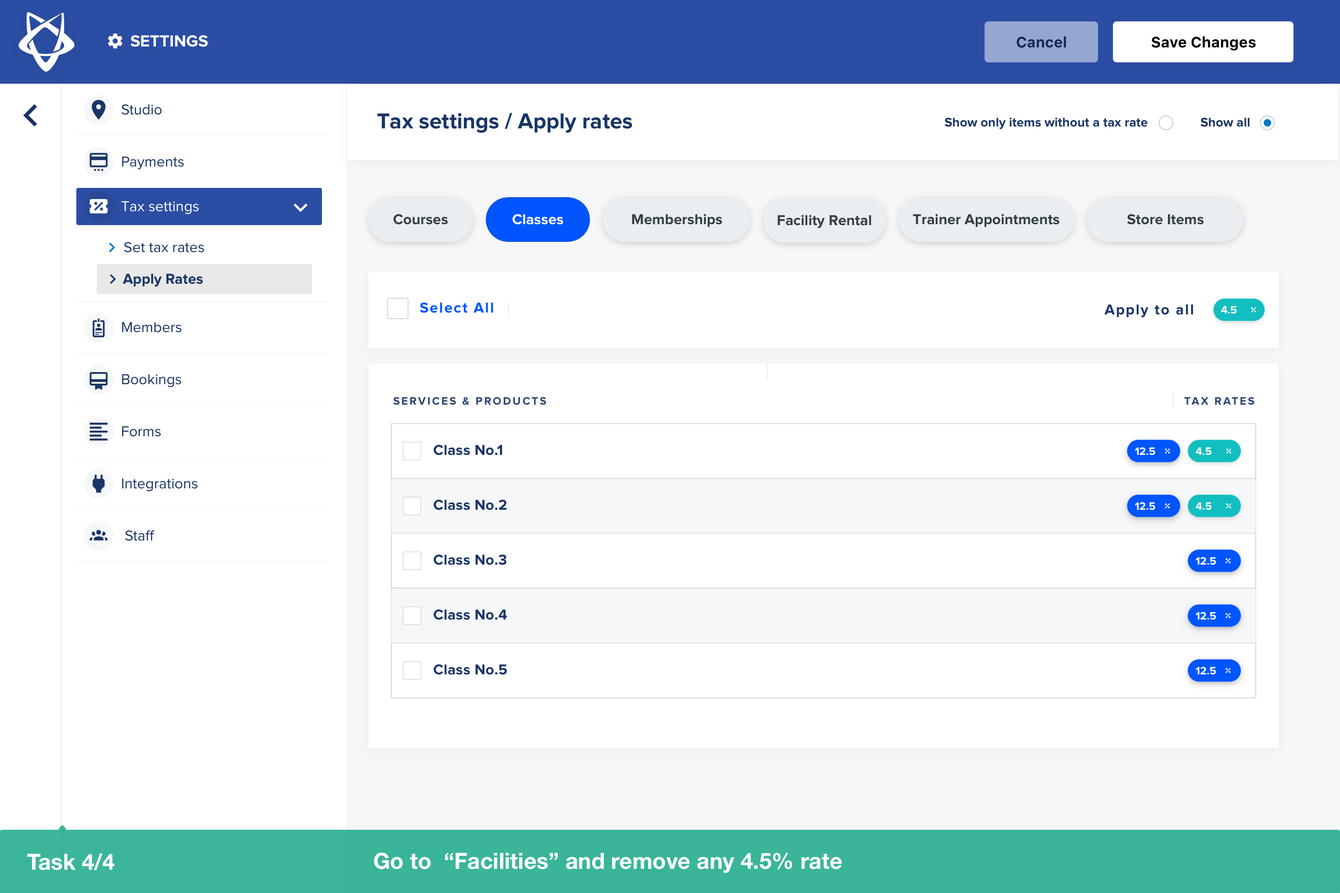
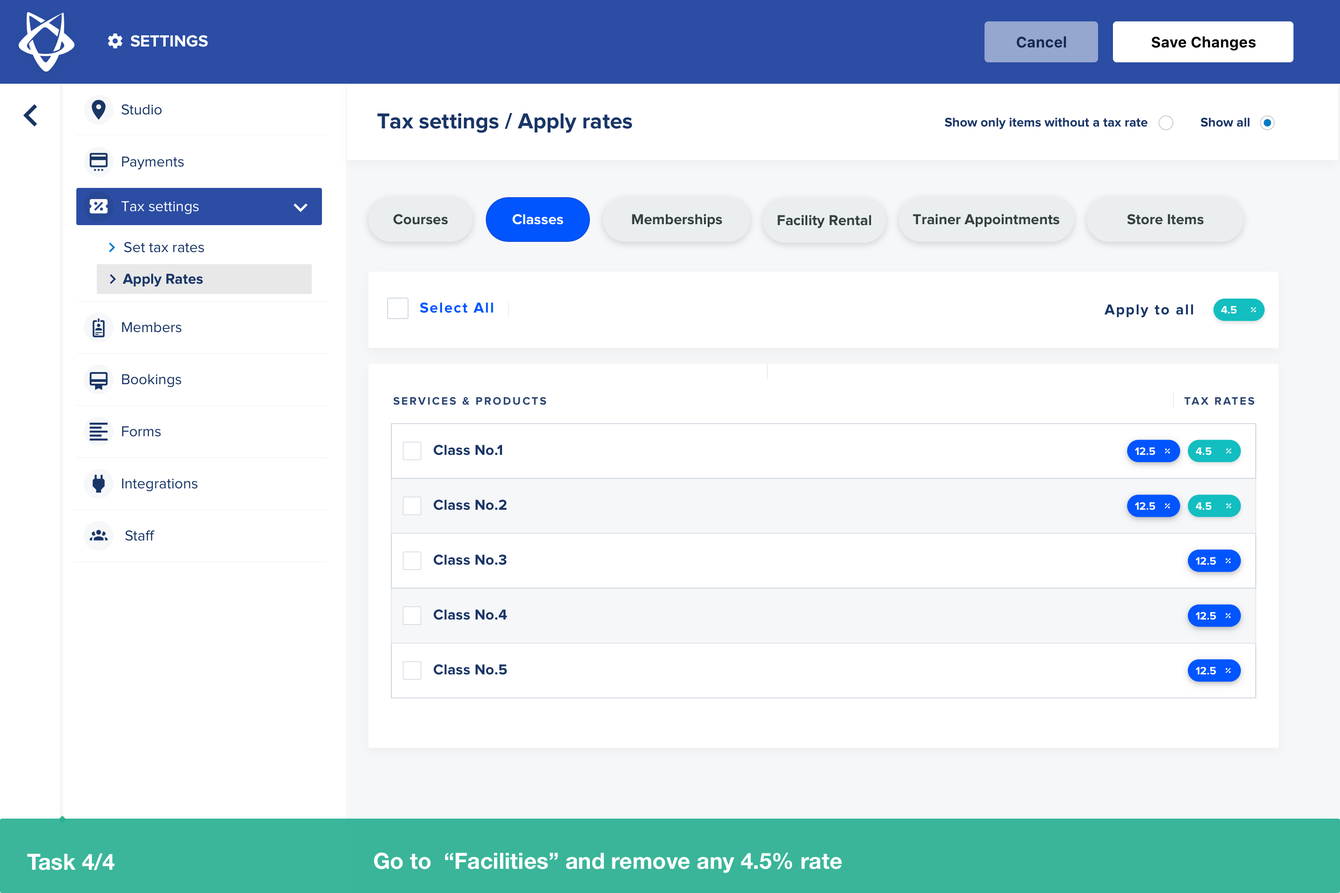
fixing sticky bars

Changed region(s): [[0.0, 0.9062, 1.0, 0.9375]]

diff --git a/index.html b/index.html
@@ -39,21 +39,22 @@
 	<link type="text/css" rel="stylesheet" href="assets/apps/share/css-static/bootstrap.css">
 	<link type="text/css" rel="stylesheet" href="assets/apps/share/css-static/intlTelInput.css">
 	<link type="text/css" rel="stylesheet" href="assets/apps/share/css/share-offline.css">
+
 	<!-- Hotjar Tracking Code for https://cristi-glofox.github.io/sales-tax-test-4/ -->
 <script>
-		var url = window.location.href;
-		if (url.indexOf("version4") == -1) {
-			window.location.href = "https://google.com";
-		}
-		(function(h,o,t,j,a,r){
-			h.hj=h.hj||function(){(h.hj.q=h.hj.q||[]).push(arguments)};
-			h._hjSettings={hjid:1390330,hjsv:6};
-			a=o.getElementsByTagName('head')[0];
-			r=o.createElement('script');r.async=1;
-			r.src=t+h._hjSettings.hjid+j+h._hjSettings.hjsv;
-			a.appendChild(r);
-		})(window,document,'https://static.hotjar.com/c/hotjar-','.js?sv=');
-	</script>
+	var url = window.location.href;
+	if (url.indexOf("version4") == -1) {
+		window.location.href = "https://google.com";
+	}
+	(function(h,o,t,j,a,r){
+		h.hj=h.hj||function(){(h.hj.q=h.hj.q||[]).push(arguments)};
+		h._hjSettings={hjid:1390330,hjsv:6};
+		a=o.getElementsByTagName('head')[0];
+		r=o.createElement('script');r.async=1;
+		r.src=t+h._hjSettings.hjid+j+h._hjSettings.hjsv;
+		a.appendChild(r);
+	})(window,document,'https://static.hotjar.com/c/hotjar-','.js?sv=');
+</script>
 </head>
 <body
 	class="branding-invision"
@@ -184,10 +185,10 @@
 						shouldShowPoweredBy: false,
 						share: {"isLoadAllScreens":true,"showToolbarIntroduction":false,"hasClosedShareIntro":true,"screenID":0,"isNavigateAllowed":true},
 						project: {"defaultbackgroundautostretch":"0","defaultZoomScrollBehavior":1,"isArchived":false,"homeScreenID":372395763,"createdAt":1562246190000,"mobileStatusbarFontColor":"white","isProcessed":true,"sortTypeID":1,"name":"[DES-73] Dash – Sales Tax V4","platform":"any","defaultbackgroundimageposition":"tile-horizontally","isMobile":false,"defaultBackgroundImageID":"","isSample":false,"deviceType":"desktop","userID":148942075,"mobileDeviceID":0,"mobileStatusbarBackgroundColor":"#000000","isOverQuota":false,"defaultBackgroundColor":"333333","isInGracePeriod":false,"defaultAlignment":"center","updatedAt":1562339431000,"companyID":0,"id":17945362,"isSnap":false,"lastAccessedAt":1562246190000,"mobileStatusbarIsOpaque":false,"defaultbackgroundframe":"0","mobileDeviceWidth":0,"isAdvanced":false,"orientation":"any","mobileStatusbarIsVisible":true},
-						screens: [{"thumbnailUrl":"assets/thumb_v4.Dash_Sales Tax -- Cover@2x.png","extended":{},"isArchived":false,"screenTypeID":1,"backgroundImageWidth":"","createdAt":1562326443000,"zoomScrollBehavior":1,"updatedByUserName":"Cristi Farcas","backgroundImageUrl":"","backgroundImageHeight":"","clientFilename":"v4.Dash_Sales Tax -- Cover@2x.png","backgroundFrame":false,"backgroundImagePosition":"tile-horizontally","isProcessed":true,"screenGroupId":0,"width":2880,"unreadCommentCount":0,"name":"v4.Dash Sales Tax -- Cover","screenUploadState":2,"backgroundColor":"333333","fixedHeaderHeight":0,"imageUrl":"assets/v4.Dash_Sales Tax -- Cover@2x.png","height":1920,"backgroundAutostretch":false,"userID":346811053,"backgroundimageserverfilename":"","serverFileName":"372395763.png","sort":1,"fixedFooterHeight":0,"alignment":"center","commentCount":0,"updatedAt":1562335378000,"id":372395763,"backgroundimageversion":"1","isPlaceholder":false,"projectID":17945362,"backgroundImageID":0,"imageVersion":4,"backgroundImageClientFilename":""},{"thumbnailUrl":"assets/thumb_v4.Dash_Sales Tax -- task@2x.png","extended":{},"isArchived":false,"screenTypeID":1,"backgroundImageWidth":"","createdAt":1562326526000,"zoomScrollBehavior":1,"updatedByUserName":"Cristi Farcas","backgroundImageUrl":"","backgroundImageHeight":"","clientFilename":"v4.Dash_Sales Tax -- task@2x.png","backgroundFrame":false,"backgroundImagePosition":"tile-horizontally","isProcessed":true,"screenGroupId":0,"width":2880,"unreadCommentCount":0,"name":"v4.Dash Sales Tax -- task","screenUploadState":2,"backgroundColor":"333333","fixedHeaderHeight":0,"imageUrl":"assets/v4.Dash_Sales Tax -- task@2x.png","height":1920,"backgroundAutostretch":false,"userID":346811053,"backgroundimageserverfilename":"","serverFileName":"372395919.png","sort":2,"fixedFooterHeight":0,"alignment":"center","commentCount":0,"updatedAt":1562335376000,"id":372395919,"backgroundimageversion":"1","isPlaceholder":false,"projectID":17945362,"backgroundImageID":0,"imageVersion":4,"backgroundImageClientFilename":""},{"thumbnailUrl":"assets/thumb_v4.Dash_SalesTax-6 -- Service 1-pre-tip@2x.png","extended":{},"isArchived":false,"screenTypeID":1,"backgroundImageWidth":"","createdAt":1562258230000,"zoomScrollBehavior":1,"updatedByUserName":"Cristi Farcas","backgroundImageUrl":"","backgroundImageHeight":"","clientFilename":"v4.Dash_SalesTax-6 -- Service 1-pre-tip@2x.png","backgroundFrame":false,"backgroundImagePosition":"tile-horizontally","isProcessed":true,"screenGroupId":0,"width":2880,"unreadCommentCount":0,"name":"v4.Dash SalesTax-6 -- Service 1-Pre-Tip","screenUploadState":3,"backgroundColor":"333333","fixedHeaderHeight":0,"imageUrl":"assets/v4.Dash_SalesTax-6 -- Service 1-pre-tip@2x.png","height":1920,"backgroundAutostretch":false,"userID":346811053,"backgroundimageserverfilename":"","serverFileName":"372292990.png","sort":3,"fixedFooterHeight":0,"alignment":"center","commentCount":0,"updatedAt":1562258237000,"id":372292990,"backgroundimageversion":"1","isPlaceholder":false,"projectID":17945362,"backgroundImageID":0,"imageVersion":1,"backgroundImageClientFilename":""},{"thumbnailUrl":"assets/thumb_v4.Dash_SalesTax-6 -- Service 1@2x.png","extended":{},"isArchived":false,"screenTypeID":1,"backgroundImageWidth":"","createdAt":1562247222000,"zoomScrollBehavior":1,"updatedByUserName":"Cristi Farcas","backgroundImageUrl":"","backgroundImageHeight":"","clientFilename":"v4.Dash_SalesTax-6 -- Service 1@2x.png","backgroundFrame":false,"backgroundImagePosition":"tile-horizontally","isProcessed":true,"screenGroupId":0,"width":2880,"unreadCommentCount":0,"name":"v4.Dash SalesTax-6 -- Service 1","screenUploadState":2,"backgroundColor":"333333","fixedHeaderHeight":180,"imageUrl":"assets/v4.Dash_SalesTax-6 -- Service 1@2x.png","height":1920,"backgroundAutostretch":false,"userID":346811053,"backgroundimageserverfilename":"","serverFileName":"372255924.png","sort":4,"fixedFooterHeight":160,"alignment":"center","commentCount":0,"updatedAt":1562340509000,"id":372255924,"backgroundimageversion":"1","isPlaceholder":false,"projectID":17945362,"backgroundImageID":0,"imageVersion":13,"backgroundImageClientFilename":""},{"thumbnailUrl":"assets/thumb_v4.Dash_SalesTax-6 -- Service 1 --- Select All@2x.png","extended":{},"isArchived":false,"screenTypeID":1,"backgroundImageWidth":"","createdAt":1562247222000,"zoomScrollBehavior":1,"updatedByUserName":"Cristi Farcas","backgroundImageUrl":"","backgroundImageHeight":"","clientFilename":"v4.Dash_SalesTax-6 -- Service 1 --- Select All@2x.png","backgroundFrame":false,"backgroundImagePosition":"tile-horizontally","isProcessed":true,"screenGroupId":0,"width":2880,"unreadCommentCount":0,"name":"v4.Dash SalesTax-6 -- Service 1 --- Select All","screenUploadState":2,"backgroundColor":"333333","fixedHeaderHeight":180,"imageUrl":"assets/v4.Dash_SalesTax-6 -- Service 1 --- Select All@2x.png","height":1920,"backgroundAutostretch":false,"userID":346811053,"backgroundimageserverfilename":"","serverFileName":"372255923.png","sort":5,"fixedFooterHeight":0,"alignment":"center","commentCount":0,"updatedAt":1562336219000,"id":372255923,"backgroundimageversion":"1","isPlaceholder":false,"projectID":17945362,"backgroundImageID":0,"imageVersion":7,"backgroundImageClientFilename":""},{"thumbnailUrl":"assets/thumb_v4.Dash_SalesTax-6 Service--- 1 Rate applied@2x.png","extended":{},"isArchived":false,"screenTypeID":1,"backgroundImageWidth":"","createdAt":1562247898000,"zoomScrollBehavior":1,"updatedByUserName":"Cristi Farcas","backgroundImageUrl":"","backgroundImageHeight":"","clientFilename":"v4.Dash_SalesTax-6 Service--- 1 Rate applied@2x.png","backgroundFrame":false,"backgroundImagePosition":"tile-horizontally","isProcessed":true,"screenGroupId":0,"width":2880,"unreadCommentCount":0,"name":"v4.Dash SalesTax-6 Service--- 1 Rate Applied","screenUploadState":2,"backgroundColor":"333333","fixedHeaderHeight":180,"imageUrl":"assets/v4.Dash_SalesTax-6 Service--- 1 Rate applied@2x.png","height":1920,"backgroundAutostretch":false,"userID":346811053,"backgroundimageserverfilename":"","serverFileName":"372258623.png","sort":6,"fixedFooterHeight":0,"alignment":"center","commentCount":0,"updatedAt":1562340510000,"id":372258623,"backgroundimageversion":"1","isPlaceholder":false,"projectID":17945362,"backgroundImageID":0,"imageVersion":11,"backgroundImageClientFilename":""},{"thumbnailUrl":"assets/thumb_v4.Dash_SalesTax-6 Service 2@2x.png","extended":{},"isArchived":false,"screenTypeID":1,"backgroundImageWidth":"","createdAt":1562250563000,"zoomScrollBehavior":1,"updatedByUserName":"Cristi Farcas","backgroundImageUrl":"","backgroundImageHeight":"","clientFilename":"v4.Dash_SalesTax-6 Service 2@2x.png","backgroundFrame":false,"backgroundImagePosition":"tile-horizontally","isProcessed":true,"screenGroupId":0,"width":2880,"unreadCommentCount":0,"name":"v4.Dash SalesTax-6 Service 2","screenUploadState":2,"backgroundColor":"333333","fixedHeaderHeight":0,"imageUrl":"assets/v4.Dash_SalesTax-6 Service 2@2x.png","height":1920,"backgroundAutostretch":false,"userID":346811053,"backgroundimageserverfilename":"","serverFileName":"372268973.png","sort":7,"fixedFooterHeight":0,"alignment":"center","commentCount":0,"updatedAt":1562336220000,"id":372268973,"backgroundimageversion":"1","isPlaceholder":false,"projectID":17945362,"backgroundImageID":0,"imageVersion":7,"backgroundImageClientFilename":""},{"thumbnailUrl":"assets/thumb_v4.Dash_SalesTax-6 Service 2 Select Item 1@2x.png","extended":{},"isArchived":false,"screenTypeID":1,"backgroundImageWidth":"","createdAt":1562335362000,"zoomScrollBehavior":1,"updatedByUserName":"Cristi Farcas","backgroundImageUrl":"","backgroundImageHeight":"","clientFilename":"v4.Dash_SalesTax-6 Service 2 Select Item 1@2x.png","backgroundFrame":false,"backgroundImagePosition":"tile-horizontally","isProcessed":true,"screenGroupId":0,"width":2880,"unreadCommentCount":0,"name":"v4.Dash SalesTax-6 Service 2 Select Item 1","screenUploadState":2,"backgroundColor":"333333","fixedHeaderHeight":0,"imageUrl":"assets/v4.Dash_SalesTax-6 Service 2 Select Item 1@2x.png","height":1920,"backgroundAutostretch":false,"userID":346811053,"backgroundimageserverfilename":"","serverFileName":"372424500.png","sort":9,"fixedFooterHeight":0,"alignment":"center","commentCount":0,"updatedAt":1562336219000,"id":372424500,"backgroundimageversion":"1","isPlaceholder":false,"projectID":17945362,"backgroundImageID":0,"imageVersion":2,"backgroundImageClientFilename":""},{"thumbnailUrl":"assets/thumb_v4.Dash_SalesTax-6 Service 2 Select Item 2@2x.png","extended":{},"isArchived":false,"screenTypeID":1,"backgroundImageWidth":"","createdAt":1562248587000,"zoomScrollBehavior":1,"updatedByUserName":"Cristi Farcas","backgroundImageUrl":"","backgroundImageHeight":"","clientFilename":"v4.Dash_SalesTax-6 Service 2 Select Item 2@2x.png","backgroundFrame":false,"backgroundImagePosition":"tile-horizontally","isProcessed":true,"screenGroupId":0,"width":2880,"unreadCommentCount":0,"name":"v4.Dash SalesTax-6 Service 2 Select Item 2","screenUploadState":2,"backgroundColor":"333333","fixedHeaderHeight":180,"imageUrl":"assets/v4.Dash_SalesTax-6 Service 2 Select Item 2@2x.png","height":1920,"backgroundAutostretch":false,"userID":346811053,"backgroundimageserverfilename":"","serverFileName":"372261248.png","sort":10,"fixedFooterHeight":160,"alignment":"center","commentCount":0,"updatedAt":1562340510000,"id":372261248,"backgroundimageversion":"1","isPlaceholder":false,"projectID":17945362,"backgroundImageID":0,"imageVersion":9,"backgroundImageClientFilename":""},{"thumbnailUrl":"assets/thumb_v4.Dash_SalesTax-6 Service 2 Other Rate Applied@2x.png","extended":{},"isArchived":false,"screenTypeID":1,"backgroundImageWidth":"","createdAt":1562251508000,"zoomScrollBehavior":1,"updatedByUserName":"Cristi Farcas","backgroundImageUrl":"","backgroundImageHeight":"","clientFilename":"v4.Dash_SalesTax-6 Service 2 Other Rate Applied@2x.png","backgroundFrame":false,"backgroundImagePosition":"tile-horizontally","isProcessed":true,"screenGroupId":0,"width":2880,"unreadCommentCount":0,"name":"v4.Dash SalesTax-6 Service 2 Other Rate Applied","screenUploadState":2,"backgroundColor":"333333","fixedHeaderHeight":0,"imageUrl":"assets/v4.Dash_SalesTax-6 Service 2 Other Rate Applied@2x.png","height":1920,"backgroundAutostretch":false,"userID":346811053,"backgroundimageserverfilename":"","serverFileName":"372272591.png","sort":11,"fixedFooterHeight":0,"alignment":"center","commentCount":0,"updatedAt":1562340510000,"id":372272591,"backgroundimageversion":"1","isPlaceholder":false,"projectID":17945362,"backgroundImageID":0,"imageVersion":7,"backgroundImageClientFilename":""},{"thumbnailUrl":"assets/thumb_v4.Dash_SalesTax-6 -- Service 4@2x.png","extended":{},"isArchived":false,"screenTypeID":1,"backgroundImageWidth":"","createdAt":1562251605000,"zoomScrollBehavior":1,"updatedByUserName":"Cristi Farcas","backgroundImageUrl":"","backgroundImageHeight":"","clientFilename":"v4.Dash_SalesTax-6 -- Service 4@2x.png","backgroundFrame":false,"backgroundImagePosition":"tile-horizontally","isProcessed":true,"screenGroupId":0,"width":2880,"unreadCommentCount":0,"name":"v4.Dash SalesTax-6 Service 4","screenUploadState":2,"backgroundColor":"333333","fixedHeaderHeight":180,"imageUrl":"assets/v4.Dash_SalesTax-6 -- Service 4@2x.png","height":1920,"backgroundAutostretch":false,"userID":346811053,"backgroundimageserverfilename":"","serverFileName":"372272970.png","sort":12,"fixedFooterHeight":0,"alignment":"center","commentCount":0,"updatedAt":1562336219000,"id":372272970,"backgroundimageversion":"1","isPlaceholder":false,"projectID":17945362,"backgroundImageID":0,"imageVersion":7,"backgroundImageClientFilename":""},{"thumbnailUrl":"assets/thumb_v4.Dash_SalesTax-6 Service 4 --- Delete Rate Item 1 tooltip@2x.png","extended":{},"isArchived":false,"screenTypeID":1,"backgroundImageWidth":"","createdAt":1562252767000,"zoomScrollBehavior":1,"updatedByUserName":"Cristi Farcas","backgroundImageUrl":"","backgroundImageHeight":"","clientFilename":"v4.Dash_SalesTax-6 Service 4 --- Delete Rate Item 1 tooltip@2x.png","backgroundFrame":false,"backgroundImagePosition":"tile-horizontally","isProcessed":true,"screenGroupId":0,"width":2880,"unreadCommentCount":0,"name":"v4.Dash SalesTax-6 Service 4 --- Delete Rate Item 1 Tooltip","screenUploadState":2,"backgroundColor":"333333","fixedHeaderHeight":180,"imageUrl":"assets/v4.Dash_SalesTax-6 Service 4 --- Delete Rate Item 1 tooltip@2x.png","height":1920,"backgroundAutostretch":false,"userID":346811053,"backgroundimageserverfilename":"","serverFileName":"372277286.png","sort":13,"fixedFooterHeight":0,"alignment":"center","commentCount":0,"updatedAt":1562336219000,"id":372277286,"backgroundimageversion":"1","isPlaceholder":false,"projectID":17945362,"backgroundImageID":0,"imageVersion":6,"backgroundImageClientFilename":""},{"thumbnailUrl":"assets/thumb_v4.Dash_SalesTax-6 Service 4 --- One rate@2x.png","extended":{},"isArchived":false,"screenTypeID":1,"backgroundImageWidth":"","createdAt":1562253617000,"zoomScrollBehavior":1,"updatedByUserName":"Cristi Farcas","backgroundImageUrl":"","backgroundImageHeight":"","clientFilename":"v4.Dash_SalesTax-6 Service 4 --- One rate@2x.png","backgroundFrame":false,"backgroundImagePosition":"tile-horizontally","isProcessed":true,"screenGroupId":0,"width":2880,"unreadCommentCount":0,"name":"v4.Dash SalesTax-6 Service 4 --- One Rate","screenUploadState":2,"backgroundColor":"333333","fixedHeaderHeight":180,"imageUrl":"assets/v4.Dash_SalesTax-6 Service 4 --- One rate@2x.png","height":1920,"backgroundAutostretch":false,"userID":346811053,"backgroundimageserverfilename":"","serverFileName":"372280267.png","sort":14,"fixedFooterHeight":0,"alignment":"center","commentCount":0,"updatedAt":1562336220000,"id":372280267,"backgroundimageversion":"1","isPlaceholder":false,"projectID":17945362,"backgroundImageID":0,"imageVersion":6,"backgroundImageClientFilename":""},{"thumbnailUrl":"assets/thumb_v4.Dash_Sales Tax -- thank_you@2x.png","extended":{},"isArchived":false,"screenTypeID":1,"backgroundImageWidth":"","createdAt":1562326443000,"zoomScrollBehavior":1,"updatedByUserName":"Cristi Farcas","backgroundImageUrl":"","backgroundImageHeight":"","clientFilename":"v4.Dash_Sales Tax -- thank_you@2x.png","backgroundFrame":false,"backgroundImagePosition":"tile-horizontally","isProcessed":true,"screenGroupId":0,"width":2880,"unreadCommentCount":0,"name":"v4.Dash Sales Tax -- thank_you","screenUploadState":2,"backgroundColor":"333333","fixedHeaderHeight":0,"imageUrl":"assets/v4.Dash_Sales Tax -- thank_you@2x.png","height":1920,"backgroundAutostretch":false,"userID":346811053,"backgroundimageserverfilename":"","serverFileName":"372395764.png","sort":15,"fixedFooterHeight":0,"alignment":"center","commentCount":0,"updatedAt":1562339671000,"id":372395764,"backgroundimageversion":"1","isPlaceholder":false,"projectID":17945362,"backgroundImageID":0,"imageVersion":4,"backgroundImageClientFilename":""}],
+						screens: [{"thumbnailUrl":"assets/thumb_v4.Dash_Sales Tax -- Cover@2x.png","extended":{},"isArchived":false,"screenTypeID":1,"backgroundImageWidth":"","createdAt":1562326443000,"zoomScrollBehavior":1,"updatedByUserName":"Cristi Farcas","backgroundImageUrl":"","backgroundImageHeight":"","clientFilename":"v4.Dash_Sales Tax -- Cover@2x.png","backgroundFrame":false,"backgroundImagePosition":"tile-horizontally","isProcessed":true,"screenGroupId":0,"width":2880,"unreadCommentCount":0,"name":"v4.Dash Sales Tax -- Cover","screenUploadState":2,"backgroundColor":"333333","fixedHeaderHeight":0,"imageUrl":"assets/v4.Dash_Sales Tax -- Cover@2x.png","height":1920,"backgroundAutostretch":false,"userID":346811053,"backgroundimageserverfilename":"","serverFileName":"372395763.png","sort":1,"fixedFooterHeight":0,"alignment":"center","commentCount":0,"updatedAt":1562335378000,"id":372395763,"backgroundimageversion":"1","isPlaceholder":false,"projectID":17945362,"backgroundImageID":0,"imageVersion":4,"backgroundImageClientFilename":""},{"thumbnailUrl":"assets/thumb_v4.Dash_Sales Tax -- task@2x.png","extended":{},"isArchived":false,"screenTypeID":1,"backgroundImageWidth":"","createdAt":1562326526000,"zoomScrollBehavior":1,"updatedByUserName":"Cristi Farcas","backgroundImageUrl":"","backgroundImageHeight":"","clientFilename":"v4.Dash_Sales Tax -- task@2x.png","backgroundFrame":false,"backgroundImagePosition":"tile-horizontally","isProcessed":true,"screenGroupId":0,"width":2880,"unreadCommentCount":0,"name":"v4.Dash Sales Tax -- task","screenUploadState":2,"backgroundColor":"333333","fixedHeaderHeight":0,"imageUrl":"assets/v4.Dash_Sales Tax -- task@2x.png","height":1920,"backgroundAutostretch":false,"userID":346811053,"backgroundimageserverfilename":"","serverFileName":"372395919.png","sort":2,"fixedFooterHeight":0,"alignment":"center","commentCount":0,"updatedAt":1562335376000,"id":372395919,"backgroundimageversion":"1","isPlaceholder":false,"projectID":17945362,"backgroundImageID":0,"imageVersion":4,"backgroundImageClientFilename":""},{"thumbnailUrl":"assets/thumb_v4.Dash_SalesTax-6 -- Service 1-pre-tip@2x.png","extended":{},"isArchived":false,"screenTypeID":1,"backgroundImageWidth":"","createdAt":1562258230000,"zoomScrollBehavior":1,"updatedByUserName":"Cristi Farcas","backgroundImageUrl":"","backgroundImageHeight":"","clientFilename":"v4.Dash_SalesTax-6 -- Service 1-pre-tip@2x.png","backgroundFrame":false,"backgroundImagePosition":"tile-horizontally","isProcessed":true,"screenGroupId":0,"width":2880,"unreadCommentCount":0,"name":"v4.Dash SalesTax-6 -- Service 1-Pre-Tip","screenUploadState":3,"backgroundColor":"333333","fixedHeaderHeight":180,"imageUrl":"assets/v4.Dash_SalesTax-6 -- Service 1-pre-tip@2x.png","height":1920,"backgroundAutostretch":false,"userID":346811053,"backgroundimageserverfilename":"","serverFileName":"372292990.png","sort":3,"fixedFooterHeight":0,"alignment":"center","commentCount":0,"updatedAt":1562258237000,"id":372292990,"backgroundimageversion":"1","isPlaceholder":false,"projectID":17945362,"backgroundImageID":0,"imageVersion":1,"backgroundImageClientFilename":""},{"thumbnailUrl":"assets/thumb_v4.Dash_SalesTax-6 -- Service 1@2x.png","extended":{},"isArchived":false,"screenTypeID":1,"backgroundImageWidth":"","createdAt":1562247222000,"zoomScrollBehavior":1,"updatedByUserName":"Cristi Farcas","backgroundImageUrl":"","backgroundImageHeight":"","clientFilename":"v4.Dash_SalesTax-6 -- Service 1@2x.png","backgroundFrame":false,"backgroundImagePosition":"tile-horizontally","isProcessed":true,"screenGroupId":0,"width":2880,"unreadCommentCount":0,"name":"v4.Dash SalesTax-6 -- Service 1","screenUploadState":2,"backgroundColor":"333333","fixedHeaderHeight":180,"imageUrl":"assets/v4.Dash_SalesTax-6 -- Service 1@2x.png","height":1920,"backgroundAutostretch":false,"userID":346811053,"backgroundimageserverfilename":"","serverFileName":"372255924.png","sort":4,"fixedFooterHeight":160,"alignment":"center","commentCount":0,"updatedAt":1562340509000,"id":372255924,"backgroundimageversion":"1","isPlaceholder":false,"projectID":17945362,"backgroundImageID":0,"imageVersion":13,"backgroundImageClientFilename":""},{"thumbnailUrl":"assets/thumb_v4.Dash_SalesTax-6 -- Service 1 --- Select All@2x.png","extended":{},"isArchived":false,"screenTypeID":1,"backgroundImageWidth":"","createdAt":1562247222000,"zoomScrollBehavior":1,"updatedByUserName":"Cristi Farcas","backgroundImageUrl":"","backgroundImageHeight":"","clientFilename":"v4.Dash_SalesTax-6 -- Service 1 --- Select All@2x.png","backgroundFrame":false,"backgroundImagePosition":"tile-horizontally","isProcessed":true,"screenGroupId":0,"width":2880,"unreadCommentCount":0,"name":"v4.Dash SalesTax-6 -- Service 1 --- Select All","screenUploadState":2,"backgroundColor":"333333","fixedHeaderHeight":180,"imageUrl":"assets/v4.Dash_SalesTax-6 -- Service 1 --- Select All@2x.png","height":1920,"backgroundAutostretch":false,"userID":346811053,"backgroundimageserverfilename":"","serverFileName":"372255923.png","sort":5,"fixedFooterHeight":0,"alignment":"center","commentCount":0,"updatedAt":1562336219000,"id":372255923,"backgroundimageversion":"1","isPlaceholder":false,"projectID":17945362,"backgroundImageID":0,"imageVersion":7,"backgroundImageClientFilename":""},{"thumbnailUrl":"assets/thumb_v4.Dash_SalesTax-6 Service--- 1 Rate applied@2x.png","extended":{},"isArchived":false,"screenTypeID":1,"backgroundImageWidth":"","createdAt":1562247898000,"zoomScrollBehavior":1,"updatedByUserName":"Cristi Farcas","backgroundImageUrl":"","backgroundImageHeight":"","clientFilename":"v4.Dash_SalesTax-6 Service--- 1 Rate applied@2x.png","backgroundFrame":false,"backgroundImagePosition":"tile-horizontally","isProcessed":true,"screenGroupId":0,"width":2880,"unreadCommentCount":0,"name":"v4.Dash SalesTax-6 Service--- 1 Rate Applied","screenUploadState":2,"backgroundColor":"333333","fixedHeaderHeight":180,"imageUrl":"assets/v4.Dash_SalesTax-6 Service--- 1 Rate applied@2x.png","height":1920,"backgroundAutostretch":false,"userID":346811053,"backgroundimageserverfilename":"","serverFileName":"372258623.png","sort":6,"fixedFooterHeight":160,"alignment":"center","commentCount":0,"updatedAt":1562340510000,"id":372258623,"backgroundimageversion":"1","isPlaceholder":false,"projectID":17945362,"backgroundImageID":0,"imageVersion":11,"backgroundImageClientFilename":""},{"thumbnailUrl":"assets/thumb_v4.Dash_SalesTax-6 Service 2@2x.png","extended":{},"isArchived":false,"screenTypeID":1,"backgroundImageWidth":"","createdAt":1562250563000,"zoomScrollBehavior":1,"updatedByUserName":"Cristi Farcas","backgroundImageUrl":"","backgroundImageHeight":"","clientFilename":"v4.Dash_SalesTax-6 Service 2@2x.png","backgroundFrame":false,"backgroundImagePosition":"tile-horizontally","isProcessed":true,"screenGroupId":0,"width":2880,"unreadCommentCount":0,"name":"v4.Dash SalesTax-6 Service 2","screenUploadState":2,"backgroundColor":"333333","fixedHeaderHeight":180,"imageUrl":"assets/v4.Dash_SalesTax-6 Service 2@2x.png","height":1920,"backgroundAutostretch":false,"userID":346811053,"backgroundimageserverfilename":"","serverFileName":"372268973.png","sort":7,"fixedFooterHeight":0,"alignment":"center","commentCount":0,"updatedAt":1562336220000,"id":372268973,"backgroundimageversion":"1","isPlaceholder":false,"projectID":17945362,"backgroundImageID":0,"imageVersion":7,"backgroundImageClientFilename":""},{"thumbnailUrl":"assets/thumb_v4.Dash_SalesTax-6 Service 2 Select Item 1@2x.png","extended":{},"isArchived":false,"screenTypeID":1,"backgroundImageWidth":"","createdAt":1562335362000,"zoomScrollBehavior":1,"updatedByUserName":"Cristi Farcas","backgroundImageUrl":"","backgroundImageHeight":"","clientFilename":"v4.Dash_SalesTax-6 Service 2 Select Item 1@2x.png","backgroundFrame":false,"backgroundImagePosition":"tile-horizontally","isProcessed":true,"screenGroupId":0,"width":2880,"unreadCommentCount":0,"name":"v4.Dash SalesTax-6 Service 2 Select Item 1","screenUploadState":2,"backgroundColor":"333333","fixedHeaderHeight":180,"imageUrl":"assets/v4.Dash_SalesTax-6 Service 2 Select Item 1@2x.png","height":1920,"backgroundAutostretch":false,"userID":346811053,"backgroundimageserverfilename":"","serverFileName":"372424500.png","sort":9,"fixedFooterHeight":0,"alignment":"center","commentCount":0,"updatedAt":1562336219000,"id":372424500,"backgroundimageversion":"1","isPlaceholder":false,"projectID":17945362,"backgroundImageID":0,"imageVersion":2,"backgroundImageClientFilename":""},{"thumbnailUrl":"assets/thumb_v4.Dash_SalesTax-6 Service 2 Select Item 2@2x.png","extended":{},"isArchived":false,"screenTypeID":1,"backgroundImageWidth":"","createdAt":1562248587000,"zoomScrollBehavior":1,"updatedByUserName":"Cristi Farcas","backgroundImageUrl":"","backgroundImageHeight":"","clientFilename":"v4.Dash_SalesTax-6 Service 2 Select Item 2@2x.png","backgroundFrame":false,"backgroundImagePosition":"tile-horizontally","isProcessed":true,"screenGroupId":0,"width":2880,"unreadCommentCount":0,"name":"v4.Dash SalesTax-6 Service 2 Select Item 2","screenUploadState":2,"backgroundColor":"333333","fixedHeaderHeight":180,"imageUrl":"assets/v4.Dash_SalesTax-6 Service 2 Select Item 2@2x.png","height":1920,"backgroundAutostretch":false,"userID":346811053,"backgroundimageserverfilename":"","serverFileName":"372261248.png","sort":10,"fixedFooterHeight":160,"alignment":"center","commentCount":0,"updatedAt":1562340510000,"id":372261248,"backgroundimageversion":"1","isPlaceholder":false,"projectID":17945362,"backgroundImageID":0,"imageVersion":9,"backgroundImageClientFilename":""},{"thumbnailUrl":"assets/thumb_v4.Dash_SalesTax-6 Service 2 Other Rate Applied@2x.png","extended":{},"isArchived":false,"screenTypeID":1,"backgroundImageWidth":"","createdAt":1562251508000,"zoomScrollBehavior":1,"updatedByUserName":"Cristi Farcas","backgroundImageUrl":"","backgroundImageHeight":"","clientFilename":"v4.Dash_SalesTax-6 Service 2 Other Rate Applied@2x.png","backgroundFrame":false,"backgroundImagePosition":"tile-horizontally","isProcessed":true,"screenGroupId":0,"width":2880,"unreadCommentCount":0,"name":"v4.Dash SalesTax-6 Service 2 Other Rate Applied","screenUploadState":2,"backgroundColor":"333333","fixedHeaderHeight":180,"imageUrl":"assets/v4.Dash_SalesTax-6 Service 2 Other Rate Applied@2x.png","height":1920,"backgroundAutostretch":false,"userID":346811053,"backgroundimageserverfilename":"","serverFileName":"372272591.png","sort":11,"fixedFooterHeight":160,"alignment":"center","commentCount":0,"updatedAt":1562669313000,"id":372272591,"backgroundimageversion":"1","isPlaceholder":false,"projectID":17945362,"backgroundImageID":0,"imageVersion":8,"backgroundImageClientFilename":""},{"thumbnailUrl":"assets/thumb_v4.Dash_SalesTax-6 -- Service 4@2x.png","extended":{},"isArchived":false,"screenTypeID":1,"backgroundImageWidth":"","createdAt":1562251605000,"zoomScrollBehavior":1,"updatedByUserName":"Cristi Farcas","backgroundImageUrl":"","backgroundImageHeight":"","clientFilename":"v4.Dash_SalesTax-6 -- Service 4@2x.png","backgroundFrame":false,"backgroundImagePosition":"tile-horizontally","isProcessed":true,"screenGroupId":0,"width":2880,"unreadCommentCount":0,"name":"v4.Dash SalesTax-6 Service 4","screenUploadState":2,"backgroundColor":"333333","fixedHeaderHeight":180,"imageUrl":"assets/v4.Dash_SalesTax-6 -- Service 4@2x.png","height":1920,"backgroundAutostretch":false,"userID":346811053,"backgroundimageserverfilename":"","serverFileName":"372272970.png","sort":12,"fixedFooterHeight":0,"alignment":"center","commentCount":0,"updatedAt":1562336219000,"id":372272970,"backgroundimageversion":"1","isPlaceholder":false,"projectID":17945362,"backgroundImageID":0,"imageVersion":7,"backgroundImageClientFilename":""},{"thumbnailUrl":"assets/thumb_v4.Dash_SalesTax-6 Service 4 --- Delete Rate Item 1 tooltip@2x.png","extended":{},"isArchived":false,"screenTypeID":1,"backgroundImageWidth":"","createdAt":1562252767000,"zoomScrollBehavior":1,"updatedByUserName":"Cristi Farcas","backgroundImageUrl":"","backgroundImageHeight":"","clientFilename":"v4.Dash_SalesTax-6 Service 4 --- Delete Rate Item 1 tooltip@2x.png","backgroundFrame":false,"backgroundImagePosition":"tile-horizontally","isProcessed":true,"screenGroupId":0,"width":2880,"unreadCommentCount":0,"name":"v4.Dash SalesTax-6 Service 4 --- Delete Rate Item 1 Tooltip","screenUploadState":2,"backgroundColor":"333333","fixedHeaderHeight":180,"imageUrl":"assets/v4.Dash_SalesTax-6 Service 4 --- Delete Rate Item 1 tooltip@2x.png","height":1920,"backgroundAutostretch":false,"userID":346811053,"backgroundimageserverfilename":"","serverFileName":"372277286.png","sort":13,"fixedFooterHeight":0,"alignment":"center","commentCount":0,"updatedAt":1562669424000,"id":372277286,"backgroundimageversion":"1","isPlaceholder":false,"projectID":17945362,"backgroundImageID":0,"imageVersion":7,"backgroundImageClientFilename":""},{"thumbnailUrl":"assets/thumb_v4.Dash_SalesTax-6 Service 4 --- One rate@2x.png","extended":{},"isArchived":false,"screenTypeID":1,"backgroundImageWidth":"","createdAt":1562253617000,"zoomScrollBehavior":1,"updatedByUserName":"Cristi Farcas","backgroundImageUrl":"","backgroundImageHeight":"","clientFilename":"v4.Dash_SalesTax-6 Service 4 --- One rate@2x.png","backgroundFrame":false,"backgroundImagePosition":"tile-horizontally","isProcessed":true,"screenGroupId":0,"width":2880,"unreadCommentCount":0,"name":"v4.Dash SalesTax-6 Service 4 --- One Rate","screenUploadState":2,"backgroundColor":"333333","fixedHeaderHeight":180,"imageUrl":"assets/v4.Dash_SalesTax-6 Service 4 --- One rate@2x.png","height":1920,"backgroundAutostretch":false,"userID":346811053,"backgroundimageserverfilename":"","serverFileName":"372280267.png","sort":14,"fixedFooterHeight":0,"alignment":"center","commentCount":0,"updatedAt":1562669427000,"id":372280267,"backgroundimageversion":"1","isPlaceholder":false,"projectID":17945362,"backgroundImageID":0,"imageVersion":7,"backgroundImageClientFilename":""},{"thumbnailUrl":"assets/thumb_v4.Dash_Sales Tax -- thank_you@2x.png","extended":{},"isArchived":false,"screenTypeID":1,"backgroundImageWidth":"","createdAt":1562326443000,"zoomScrollBehavior":1,"updatedByUserName":"Cristi Farcas","backgroundImageUrl":"","backgroundImageHeight":"","clientFilename":"v4.Dash_Sales Tax -- thank_you@2x.png","backgroundFrame":false,"backgroundImagePosition":"tile-horizontally","isProcessed":true,"screenGroupId":0,"width":2880,"unreadCommentCount":0,"name":"v4.Dash Sales Tax -- thank_you","screenUploadState":2,"backgroundColor":"333333","fixedHeaderHeight":0,"imageUrl":"assets/v4.Dash_Sales Tax -- thank_you@2x.png","height":1920,"backgroundAutostretch":false,"userID":346811053,"backgroundimageserverfilename":"","serverFileName":"372395764.png","sort":15,"fixedFooterHeight":0,"alignment":"center","commentCount":0,"updatedAt":1562339671000,"id":372395764,"backgroundimageversion":"1","isPlaceholder":false,"projectID":17945362,"backgroundImageID":0,"imageVersion":4,"backgroundImageClientFilename":""}],
 						dividers: [{"position":0,"sort":0,"type":"divider","projectID":17945362,"label":"","dividerID":0,"expanded":true}],
 						metaScreens: {"icon":{"imageUrl":"","sameOriginImageUrl":"","relation":"apple-touch-icon-precomposed"},"splash":{"imageUrl":"","sameOriginImageUrl":"","relation":"apple-touch-startup-image","backgroundColor":""}},
-						hotspots: [{"metaData":{},"height":462,"isBottomAligned":false,"templateID":"","eventTypeID":1,"targetScreenID":372395919,"y":1236,"screenID":372395763,"transitionTypeID":1,"targetTypeID":1,"width":2682,"x":164,"id":1043366549,"isScrollTo":false},{"metaData":{},"height":734,"isBottomAligned":false,"templateID":"","eventTypeID":1,"targetScreenID":372292990,"y":798,"screenID":372395919,"transitionTypeID":1,"targetTypeID":1,"width":2738,"x":110,"id":1043367094,"isScrollTo":false},{"metaData":{"isOpenInNewWindow":true,"url":"https://www.hotjar.com/legal/compliance/opt-out"},"height":62,"isBottomAligned":false,"templateID":"","eventTypeID":1,"targetScreenID":0,"y":1648,"screenID":372395764,"transitionTypeID":1,"targetTypeID":5,"width":1006,"x":208,"id":1043465405,"isScrollTo":false},{"metaData":{},"height":152,"isBottomAligned":false,"templateID":"","eventTypeID":1,"targetScreenID":0,"y":620,"screenID":372255923,"transitionTypeID":1,"targetTypeID":3,"width":286,"x":1104,"id":1042981079,"isScrollTo":true},{"metaData":{},"height":162,"isBottomAligned":false,"templateID":"","eventTypeID":1,"targetScreenID":0,"y":616,"screenID":372255923,"transitionTypeID":1,"targetTypeID":4,"width":294,"x":2452,"id":1043011866,"isScrollTo":false},{"metaData":{"redirectAfter":2400},"height":0,"isBottomAligned":false,"templateID":"","eventTypeID":9,"targetScreenID":0,"y":-10,"screenID":372292990,"transitionTypeID":1,"targetTypeID":4,"width":0,"x":-10,"id":1043079842,"isScrollTo":true},{"metaData":{},"height":158,"isBottomAligned":false,"templateID":"","eventTypeID":1,"targetScreenID":372258623,"y":618,"screenID":372255924,"transitionTypeID":1,"targetTypeID":1,"width":152,"x":2452,"id":1043050570,"isScrollTo":true},{"metaData":{},"height":88,"isBottomAligned":false,"templateID":"","eventTypeID":1,"targetScreenID":372277286,"y":924,"screenID":372272970,"transitionTypeID":1,"targetTypeID":1,"width":134,"x":2548,"id":1043049057,"isScrollTo":true},{"metaData":{},"height":110,"isBottomAligned":false,"templateID":"","eventTypeID":1,"targetScreenID":372272970,"y":414,"screenID":372272591,"transitionTypeID":1,"targetTypeID":1,"width":294,"x":1626,"id":1043031084,"isScrollTo":false},{"metaData":{},"height":112,"isBottomAligned":false,"templateID":"","eventTypeID":1,"targetScreenID":372261248,"y":1030,"screenID":372424500,"transitionTypeID":1,"targetTypeID":1,"width":88,"x":838,"id":1043488528,"isScrollTo":true},{"metaData":{},"height":164,"isBottomAligned":false,"templateID":"","eventTypeID":1,"targetScreenID":372272591,"y":580,"screenID":372261248,"transitionTypeID":1,"targetTypeID":1,"width":600,"x":2142,"id":1043024381,"isScrollTo":false},{"metaData":{},"height":116,"isBottomAligned":false,"templateID":"","eventTypeID":1,"targetScreenID":372424500,"y":910,"screenID":372268973,"transitionTypeID":1,"targetTypeID":1,"width":84,"x":838,"id":1043017646,"isScrollTo":true},{"metaData":{},"height":98,"isBottomAligned":false,"templateID":"","eventTypeID":1,"targetScreenID":0,"y":838,"screenID":372277286,"transitionTypeID":1,"targetTypeID":4,"width":320,"x":2416,"id":1043079323,"isScrollTo":false},{"metaData":{"redirectAfter":1500},"height":0,"isBottomAligned":false,"templateID":"","eventTypeID":9,"targetScreenID":372395764,"y":-10,"screenID":372280267,"transitionTypeID":1,"targetTypeID":1,"width":0,"x":-10,"id":1043489963,"isScrollTo":true},{"metaData":{},"height":138,"isBottomAligned":false,"templateID":"","eventTypeID":1,"targetScreenID":372268973,"y":400,"screenID":372258623,"transitionTypeID":1,"targetTypeID":1,"width":242,"x":1030,"id":1043013729,"isScrollTo":true},{"metaData":{},"height":154,"isBottomAligned":true,"templateID":25776706,"eventTypeID":1,"targetScreenID":372255923,"y":1148,"screenID":372255923,"transitionTypeID":1,"targetTypeID":1,"width":300,"x":794,"id":1042980087,"isScrollTo":false},{"metaData":{},"height":154,"isBottomAligned":true,"templateID":25776706,"eventTypeID":1,"targetScreenID":372255923,"y":1148,"screenID":372255924,"transitionTypeID":1,"targetTypeID":1,"width":300,"x":794,"id":1042980087,"isScrollTo":false}],
+						hotspots: [{"metaData":{},"height":462,"isBottomAligned":false,"templateID":"","eventTypeID":1,"targetScreenID":372395919,"y":1236,"screenID":372395763,"transitionTypeID":1,"targetTypeID":1,"width":2682,"x":164,"id":1043366549,"isScrollTo":false},{"metaData":{},"height":734,"isBottomAligned":false,"templateID":"","eventTypeID":1,"targetScreenID":372292990,"y":798,"screenID":372395919,"transitionTypeID":1,"targetTypeID":1,"width":2738,"x":110,"id":1043367094,"isScrollTo":false},{"metaData":{"isOpenInNewWindow":true,"url":"https://www.hotjar.com/legal/compliance/opt-out"},"height":62,"isBottomAligned":false,"templateID":"","eventTypeID":1,"targetScreenID":0,"y":1648,"screenID":372395764,"transitionTypeID":1,"targetTypeID":5,"width":1006,"x":208,"id":1043465405,"isScrollTo":false},{"metaData":{},"height":152,"isBottomAligned":false,"templateID":"","eventTypeID":1,"targetScreenID":0,"y":620,"screenID":372255923,"transitionTypeID":1,"targetTypeID":3,"width":286,"x":1104,"id":1042981079,"isScrollTo":true},{"metaData":{},"height":162,"isBottomAligned":false,"templateID":"","eventTypeID":1,"targetScreenID":0,"y":616,"screenID":372255923,"transitionTypeID":1,"targetTypeID":4,"width":294,"x":2452,"id":1043011866,"isScrollTo":false},{"metaData":{"redirectAfter":2400},"height":0,"isBottomAligned":false,"templateID":"","eventTypeID":9,"targetScreenID":0,"y":-10,"screenID":372292990,"transitionTypeID":1,"targetTypeID":4,"width":0,"x":-10,"id":1043079842,"isScrollTo":true},{"metaData":{},"height":158,"isBottomAligned":false,"templateID":"","eventTypeID":1,"targetScreenID":372258623,"y":618,"screenID":372255924,"transitionTypeID":1,"targetTypeID":1,"width":152,"x":2452,"id":1043050570,"isScrollTo":true},{"metaData":{},"height":88,"isBottomAligned":false,"templateID":"","eventTypeID":1,"targetScreenID":372277286,"y":924,"screenID":372272970,"transitionTypeID":1,"targetTypeID":1,"width":134,"x":2548,"id":1043049057,"isScrollTo":true},{"metaData":{},"height":110,"isBottomAligned":false,"templateID":"","eventTypeID":1,"targetScreenID":372272970,"y":414,"screenID":372272591,"transitionTypeID":1,"targetTypeID":1,"width":294,"x":1626,"id":1043031084,"isScrollTo":false},{"metaData":{},"height":112,"isBottomAligned":false,"templateID":"","eventTypeID":1,"targetScreenID":372261248,"y":1030,"screenID":372424500,"transitionTypeID":1,"targetTypeID":1,"width":88,"x":838,"id":1043488528,"isScrollTo":true},{"metaData":{},"height":164,"isBottomAligned":false,"templateID":"","eventTypeID":1,"targetScreenID":372272591,"y":580,"screenID":372261248,"transitionTypeID":1,"targetTypeID":1,"width":600,"x":2142,"id":1043024381,"isScrollTo":false},{"metaData":{},"height":116,"isBottomAligned":false,"templateID":"","eventTypeID":1,"targetScreenID":372424500,"y":910,"screenID":372268973,"transitionTypeID":1,"targetTypeID":1,"width":84,"x":838,"id":1043017646,"isScrollTo":true},{"metaData":{},"height":98,"isBottomAligned":false,"templateID":"","eventTypeID":1,"targetScreenID":0,"y":838,"screenID":372277286,"transitionTypeID":1,"targetTypeID":4,"width":320,"x":2416,"id":1043079323,"isScrollTo":false},{"metaData":{"redirectAfter":2000},"height":0,"isBottomAligned":false,"templateID":"","eventTypeID":9,"targetScreenID":372395764,"y":-10,"screenID":372280267,"transitionTypeID":1,"targetTypeID":1,"width":0,"x":-10,"id":1043489963,"isScrollTo":false},{"metaData":{},"height":138,"isBottomAligned":false,"templateID":"","eventTypeID":1,"targetScreenID":372268973,"y":400,"screenID":372258623,"transitionTypeID":1,"targetTypeID":1,"width":242,"x":1030,"id":1043013729,"isScrollTo":true},{"metaData":{},"height":154,"isBottomAligned":true,"templateID":25776706,"eventTypeID":1,"targetScreenID":372255923,"y":1148,"screenID":372255923,"transitionTypeID":1,"targetTypeID":1,"width":300,"x":794,"id":1042980087,"isScrollTo":false},{"metaData":{},"height":154,"isBottomAligned":true,"templateID":25776706,"eventTypeID":1,"targetScreenID":372255923,"y":1148,"screenID":372255924,"transitionTypeID":1,"targetTypeID":1,"width":300,"x":794,"id":1042980087,"isScrollTo":false}],
 						branding: {
 							stub: "invision",
 							url: "http://www.InVisionApp.com/"
